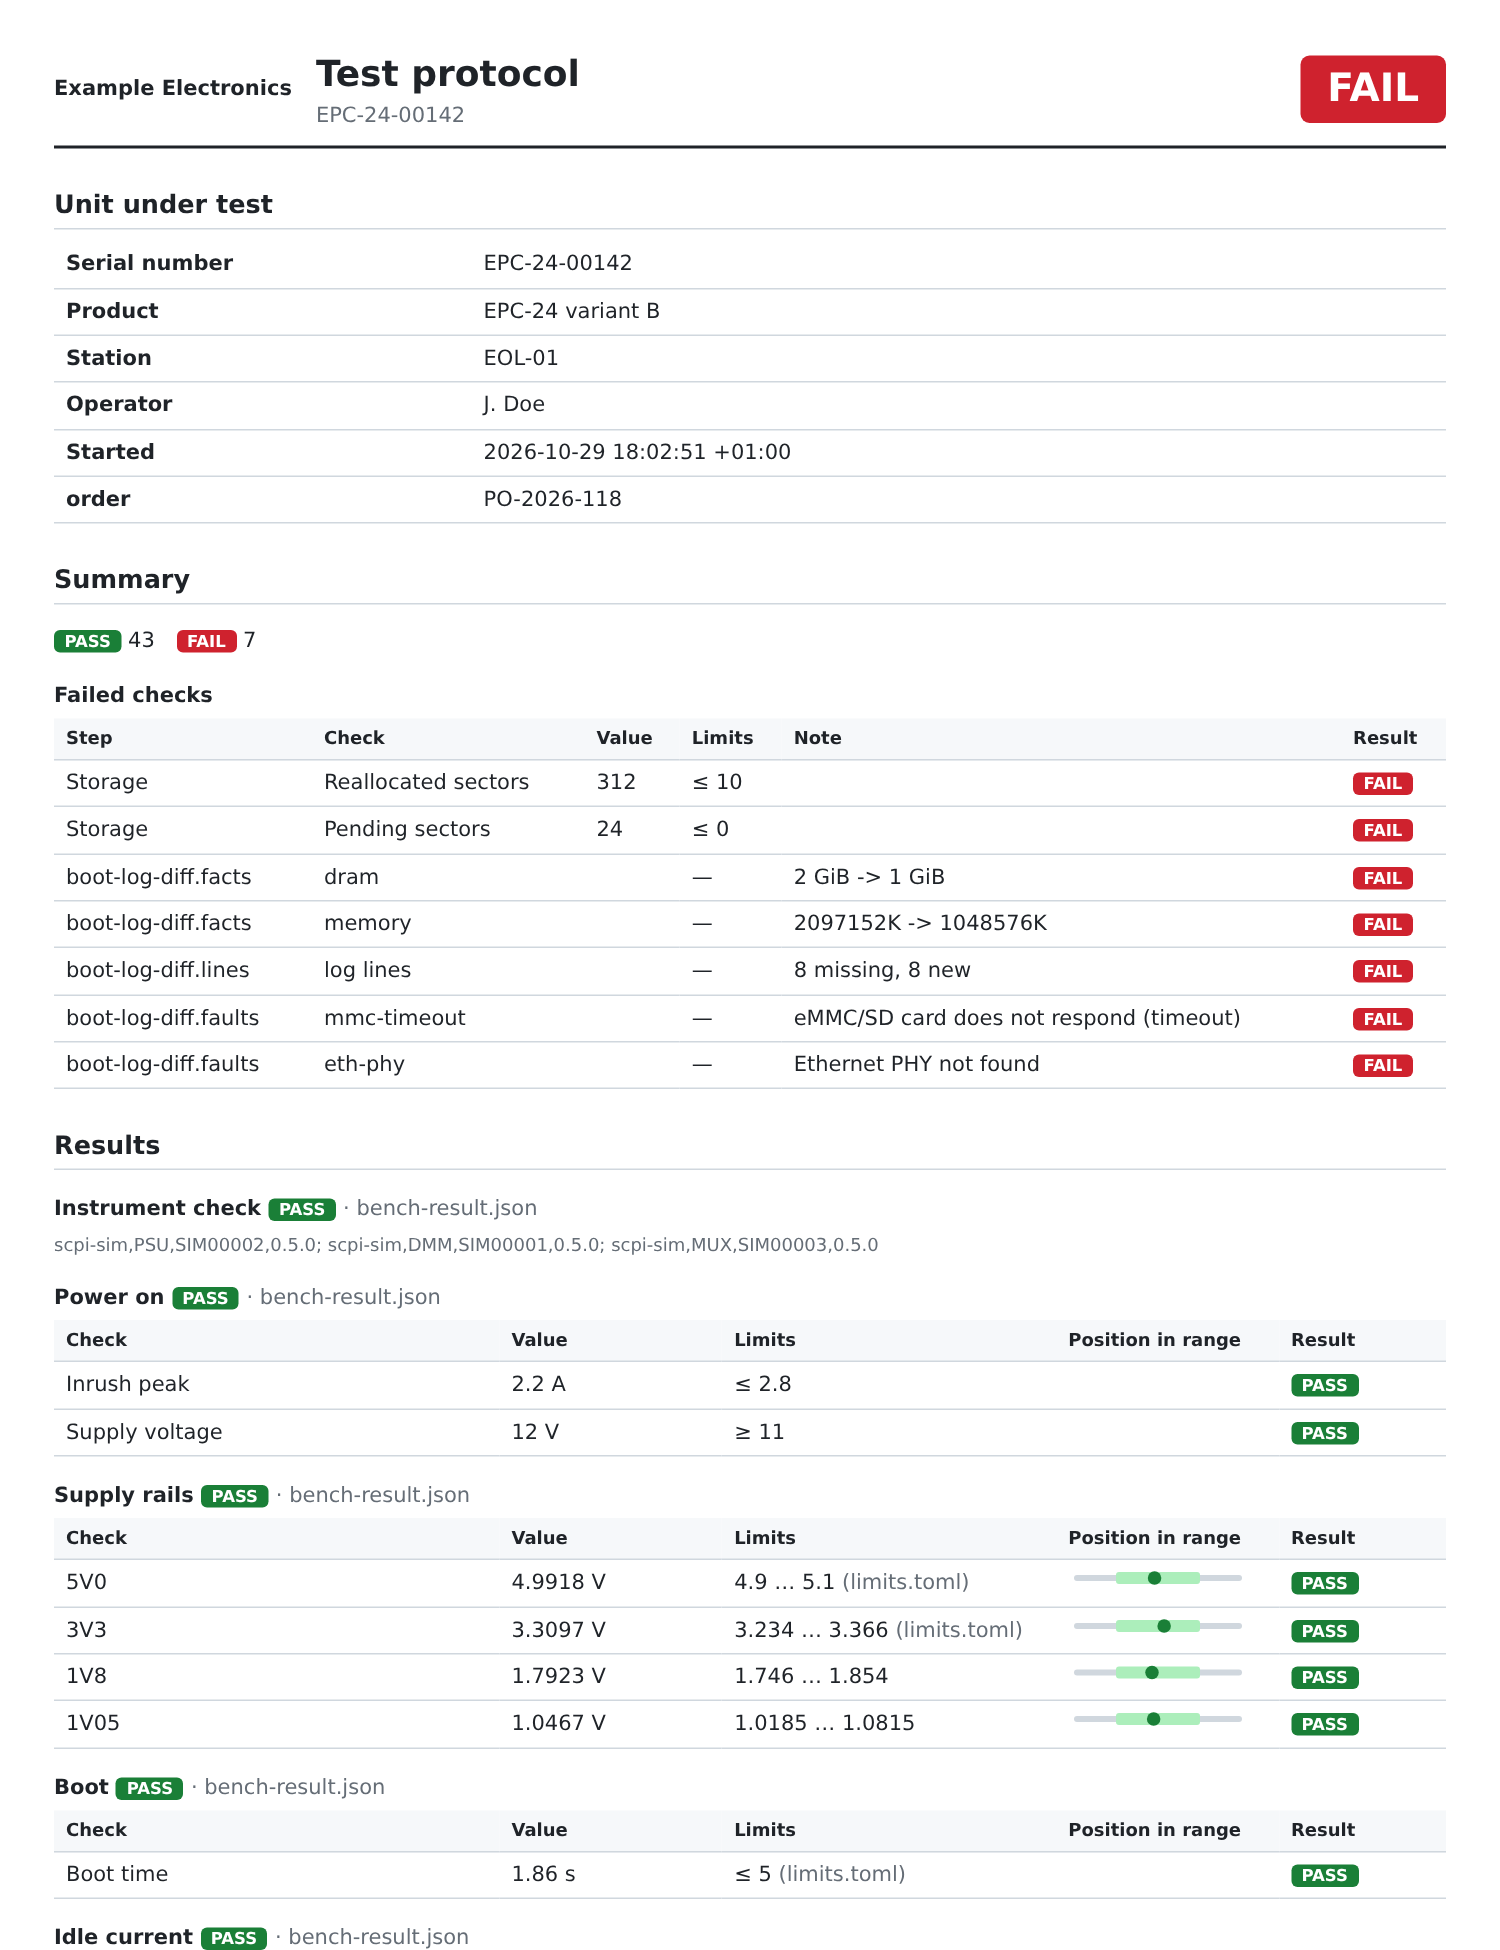
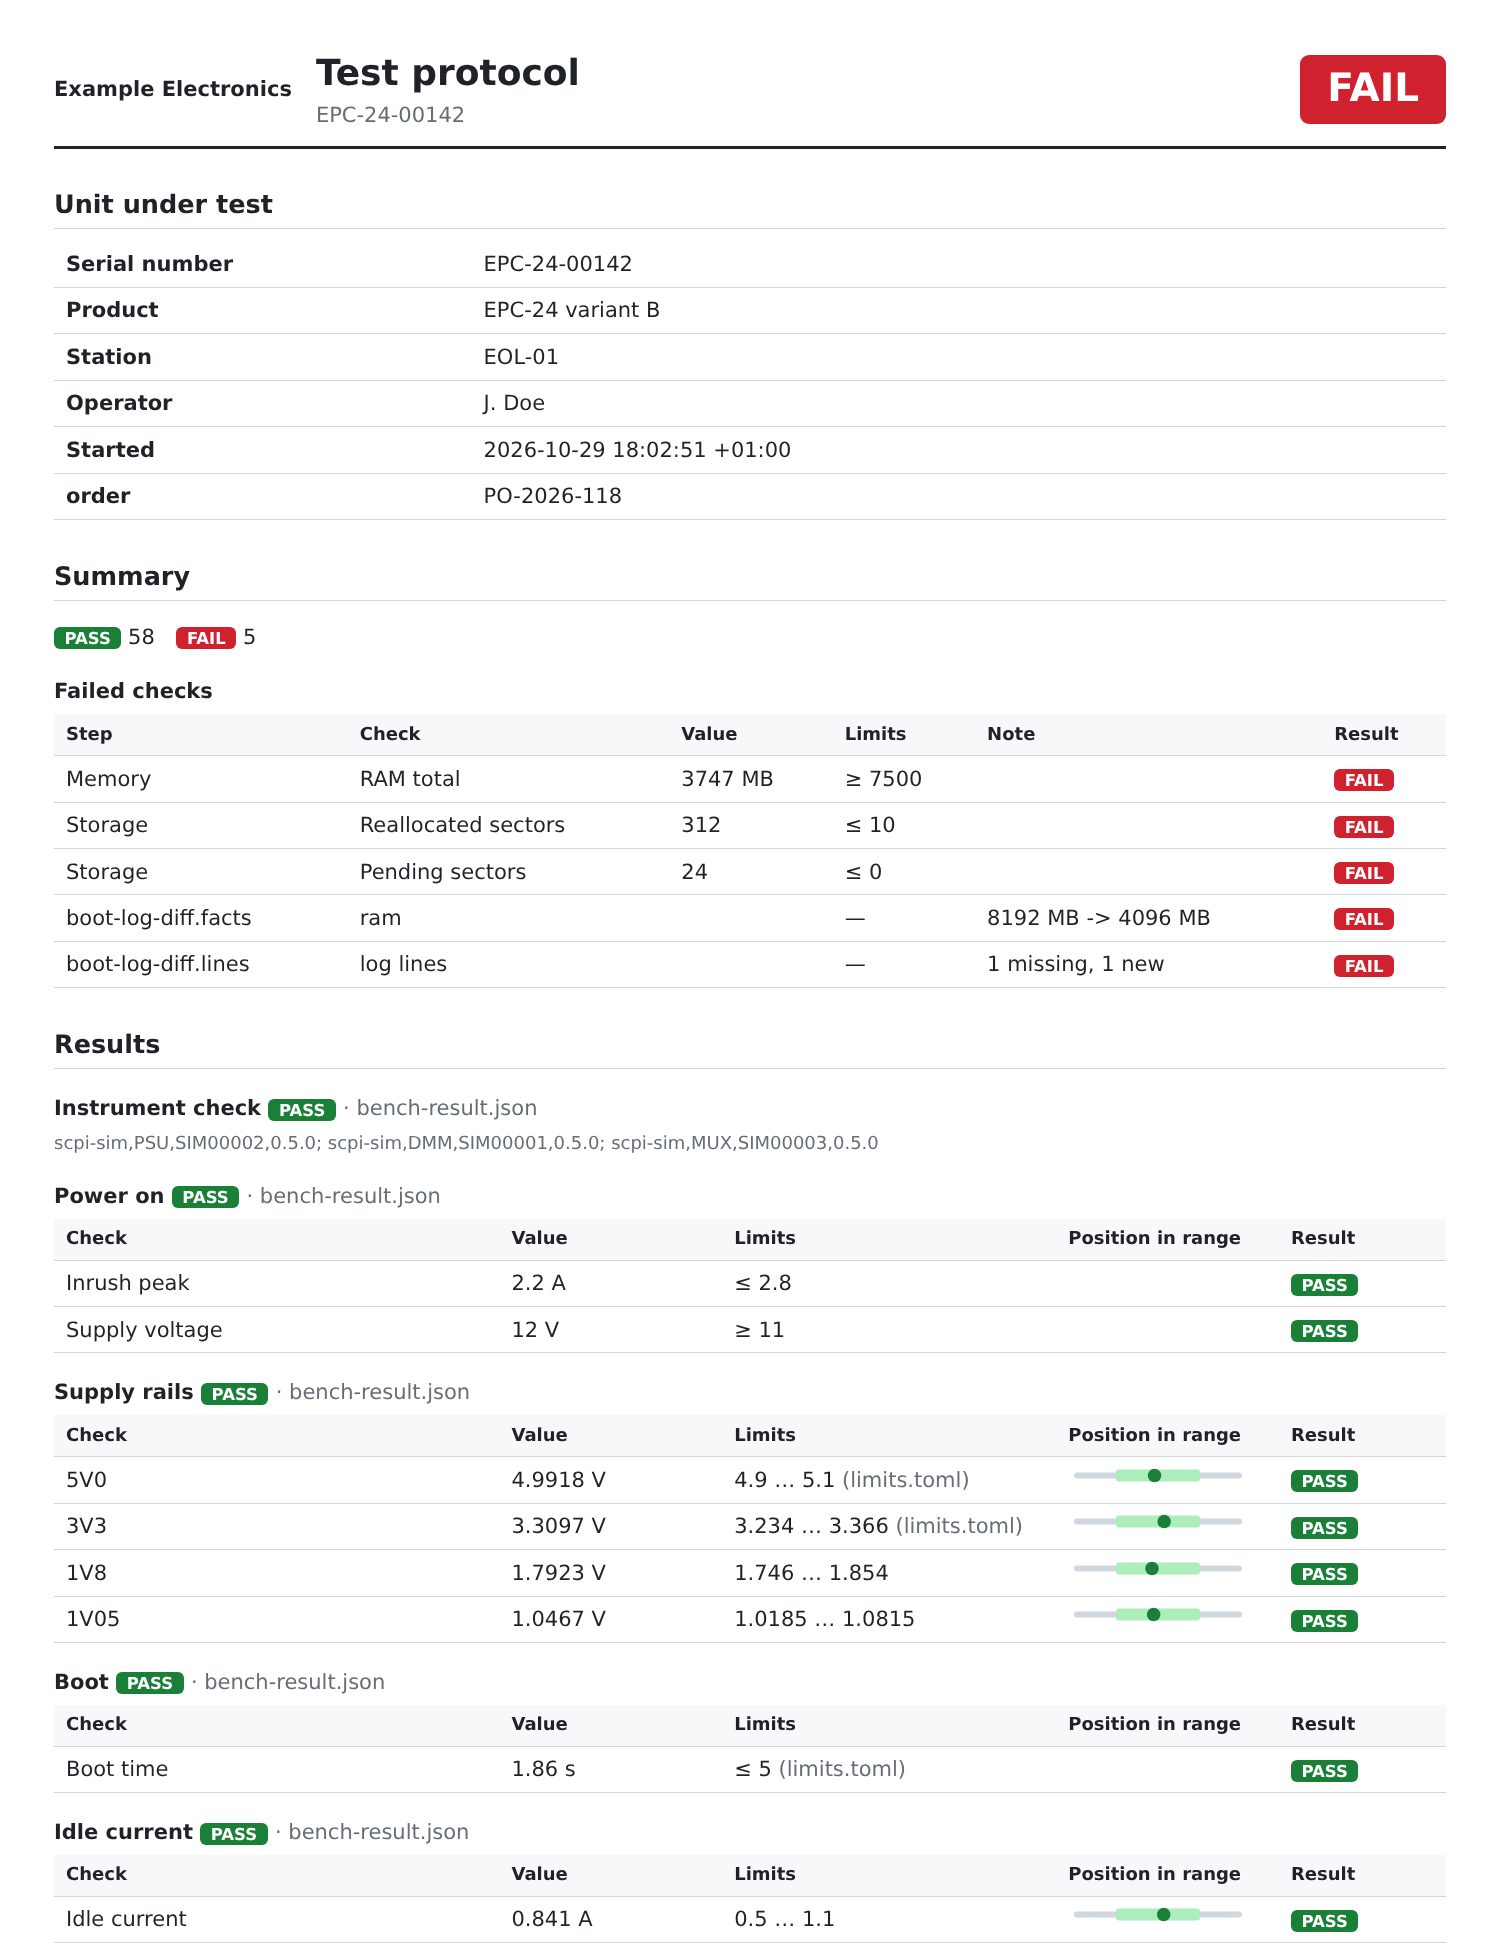
Examples: one consistent story for EPC-24-00142 (0.1.3) (#5)
* Examples: one consistent story for EPC-24-00142 (0.1.3)

* test_examples: read files as UTF-8 (Windows)

diff --git a/tests/test_examples.py b/tests/test_examples.py
@@ -1,0 +1,45 @@
+"""The example units in examples/ must tell one consistent story per board."""
+
+import json
+import re
+import xml.etree.ElementTree as ET
+from pathlib import Path
+
+import pytest
+
+EXAMPLES = Path(__file__).parent.parent / "examples"
+UNITS = ["EPC-24-00137", "EPC-24-00142"]
+
+
+def bench(unit: str) -> dict:
+    return json.loads((EXAMPLES / unit / "bench-result.json").read_text(encoding="utf-8"))
+
+
+def boot_suite(unit: str) -> ET.Element:
+    return ET.parse(EXAMPLES / unit / "boot-log.xml").getroot()
+
+
+def post_ram_mb(log: str) -> int:
+    return int(re.search(r"POST: Memory (\d+) MB", log).group(1))
+
+
+@pytest.mark.parametrize("unit", UNITS)
+def test_boot_log_is_from_this_unit(unit):
+    props = {p.get("name"): p.get("value") for p in boot_suite(unit).iter("property")}
+    assert Path(props["dut"]).stem == unit
+    dut_log = (EXAMPLES / props["dut"]).read_text(encoding="utf-8")
+    # same board as the bench run: the BIOS lines of the console capture
+    assert dut_log.splitlines()[0] in bench(unit)["console_log"]
+
+
+@pytest.mark.parametrize("unit", UNITS)
+def test_ram_agrees_between_bench_and_boot_log(unit):
+    data = bench(unit)
+    props = {p.get("name"): p.get("value") for p in boot_suite(unit).iter("property")}
+    post_in_bench = post_ram_mb(data["console_log"])
+    post_in_boot_log = post_ram_mb((EXAMPLES / props["dut"]).read_text(encoding="utf-8"))
+    assert post_in_bench == post_in_boot_log
+    memory = next(s for s in data["steps"] if s["name"] == "Memory")
+    ram_fact = next(c for c in boot_suite(unit).iter("testcase") if c.get("name") == "ram")
+    ram_failed_in_boot_log = ram_fact.find("failure") is not None
+    assert (memory["status"] == "FAIL") == ram_failed_in_boot_log

diff --git a/tests/test_cli.py b/tests/test_cli.py
@@ -141,4 +141,4 @@ def test_pdf_error_exit_2(tmp_path, monkeypatch, capsys):
 def test_module_entry():
     result = subprocess.run([sys.executable, "-m", "test_protocol", "--version"],
                             capture_output=True, text=True)
-    assert result.stdout.strip() == "test-protocol 0.1.2"
+    assert result.stdout.strip() == "test-protocol 0.1.3"

diff --git a/src/test_protocol/__init__.py b/src/test_protocol/__init__.py
@@ -1,3 +1,3 @@
 """Turn raw test results into a printable test protocol."""
 
-__version__ = "0.1.2"
+__version__ = "0.1.3"

diff --git a/examples/README.md b/examples/README.md
@@ -9,13 +9,22 @@ three tools:
 | `interface-test.json` | [interface-test-kit](https://github.com/steitec/interface-test-kit): USB, Ethernet, serial, LED (only EPC-24-00137) |
 | `boot-log.xml` | [boot-log-diff](https://github.com/steitec/boot-log-diff) `--junit`: boot log against the golden log |
 
+The boot logs behind `boot-log.xml` are in `boot-logs/` (the golden log of the
+EPC-24 from bench-automation and one capture per unit). The RAM size from the
+BIOS POST line is compared as an extra fact:
+
+```console
+boot-log-diff boot-logs/golden.log boot-logs/EPC-24-00142.log \
+    --fact 'ram=POST: Memory (\d+ MB)' --junit EPC-24-00142/boot-log.xml
+```
+
 `limits.toml` tightens some limits of the raw data.
 
 ```console
 # passes, exit status 0
 test-protocol EPC-24-00137/* --limits limits.toml -o EPC-24-00137.html
 
-# fails (SSD with reallocated sectors, half the RAM, no Ethernet PHY), exit status 1
+# fails (SSD with reallocated sectors, half the RAM), exit status 1
 test-protocol EPC-24-00142/* --limits limits.toml -o EPC-24-00142.html --lang de --approver
 ```
 

diff --git a/README.md b/README.md
@@ -23,14 +23,12 @@ log comparison, a pytest run — are merged into one protocol.
 ```console
 $ test-protocol examples/EPC-24-00142/* --limits examples/limits.toml
 EPC-24-00142: FAIL
-PASS 43  FAIL 7
+PASS 58  FAIL 5
+  FAIL  Memory / RAM total: 3747 MB (≥ 7500)
   FAIL  Storage / Reallocated sectors: 312 (≤ 10)
   FAIL  Storage / Pending sectors: 24 (≤ 0)
-  FAIL  boot-log-diff.facts / dram: 2 GiB -> 1 GiB
-  FAIL  boot-log-diff.facts / memory: 2097152K -> 1048576K
-  FAIL  boot-log-diff.lines / log lines: 8 missing, 8 new
-  FAIL  boot-log-diff.faults / mmc-timeout: eMMC/SD card does not respond (timeout)
-  FAIL  boot-log-diff.faults / eth-phy: Ethernet PHY not found
+  FAIL  boot-log-diff.facts / ram: 8192 MB -> 4096 MB
+  FAIL  boot-log-diff.lines / log lines: 1 missing, 1 new
 
 $ test-protocol examples/EPC-24-00142/* --limits examples/limits.toml \
     --product "EPC-24 variant B" --operator "J. Doe" --meta order=PO-2026-118 \

diff --git a/CHANGELOG.md b/CHANGELOG.md
@@ -1,5 +1,13 @@
 # Changelog
 
+## 0.1.3 — 2026-11-16
+
+- Examples: EPC-24-00142 now tells one story. Its boot log result came from a different
+  board (an ARM board with U-Boot and eMMC) and said 1 GiB RAM while the bench measured
+  8 GB. Both now show the same fault, half the RAM (4096 MB), next to the worn SSD. The
+  boot logs behind `boot-log.xml` are in `examples/boot-logs/`, with the command that
+  makes the XML; a test keeps bench and boot log of each unit consistent.
+
 ## 0.1.2 — 2026-11-09
 
 - Result tables: the limit source wraps instead of running into the tolerance
